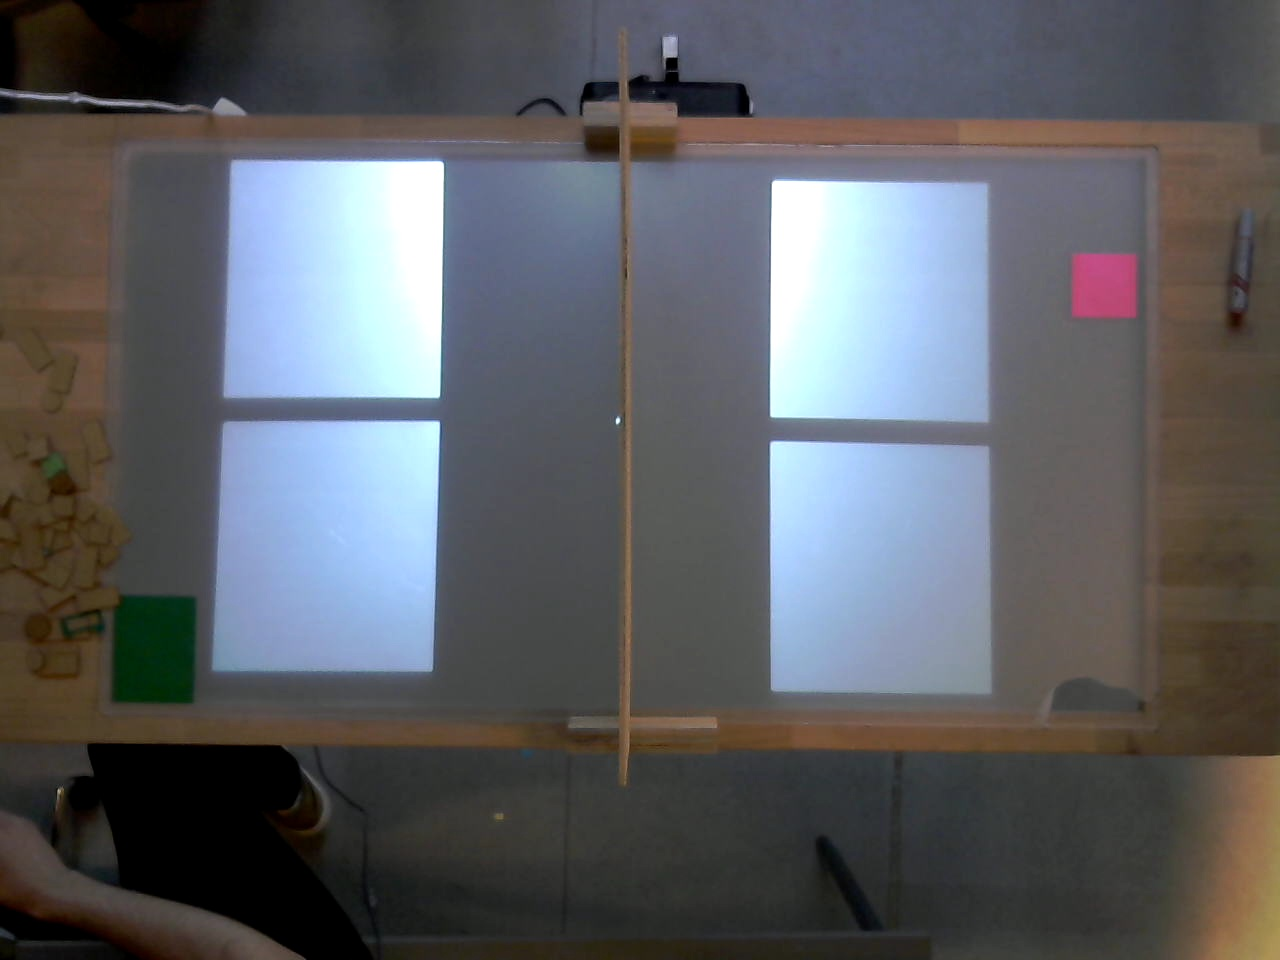
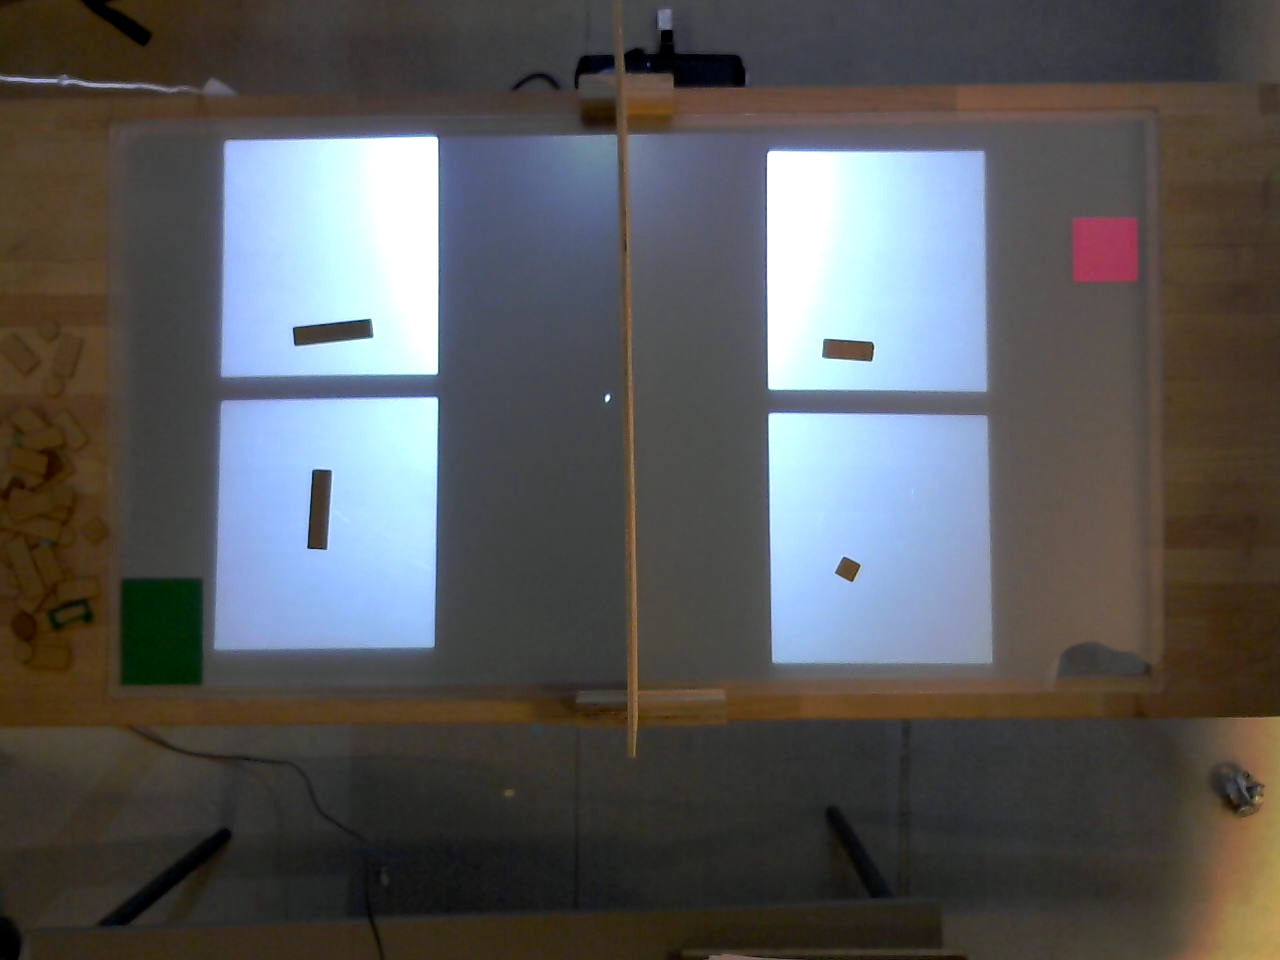
Cropping works now with video

diff --git a/Final code/cropAndDetect.py b/Final code/cropAndDetect.py
@@ -7,38 +7,20 @@ from calibration import *
 # Player = what player it should do its operations for
 # Type = defines if it is the attack or placement grid it should make
 # Coordinates = the coordinate set it should derive its coordinates for
-def detectShapes(image, player : int, type : int, cord):
-    image = cv2.GaussianBlur(image, (5, 5), cv2.BORDER_DEFAULT)
-    #lower_red = np.array([0, 0, 80])
-    #higher_red = np.array([25, 20, 255])
 
-    if player == 1:
-        if type == 0:
-            cropped_image = image[cord[0][0][0][1]:cord[0][0][1][1], cord[0][0][0][0]:cord[0][0][1][0]]
-            #binary_image = cv2.inRange(cropped_image, lower_red, higher_red)
-            #ship_positions = extract_blobs(binary_image)
-            cv2.imshow("Cropped", cropped_image)
+pg1 = []; pg2 = []; ag1 = []; ag2 = []
+background_images = []; shapes = []
 
-        if type == 1:
-            cropped_image = image[cord[1][0][0][1]:cord[0][0][1][1], cord[1][0][0][0]:cord[0][1][1][0]]
-            #binary_image = cv2.inRange(cropped_image, lower_red, higher_red)
-            #ship_positions = extract_blobs(binary_image)
-            cv2.imshow("Cropped", cropped_image)
 
-    elif player == 2:
-        if type == 0:
-            cropped_image = image[cord[0][1][0][1]:cord[0][1][1][1], cord[0][1][0][0]:cord[0][1][1][0]]
-            #binary_image = cv2.inRange(cropped_image, lower_red, higher_red)
-            #ship_positions = extract_blobs(binary_image)
-            cv2.imshow("Cropped", cropped_image)
+def gridPositions(pg1, pg2, ag1, ag2):
+    pg1.append((positions[0][0][0][1], positions[0][0][1][1],  positions[0][0][0][0], positions[0][0][1][0]))
+    pg2.append((positions[0][1][0][1], positions[0][1][1][1], positions[0][1][0][0], positions[0][1][1][0]))
+    ag1.append((positions[1][0][0][1], positions[0][0][1][1], positions[1][0][0][0], positions[0][1][1][0]))
+    ag2.append((positions[1][1][0][1], positions[1][1][1][1], positions[1][1][0][0], positions[1][1][1][0]))
 
-        if type == 1:
-            cropped_image = image[cord[1][1][0][1]:cord[1][1][1][1], cord[1][1][0][0]:cord[1][1][1][0]]
-            #binary_image = cv2.inRange(cropped_image, lower_red, higher_red)
-            #ship_positions = extract_blobs(binary_image)
-            cv2.imshow("Cropped", cropped_image)
-
-    cv2.imwrite("Pictures/cropped_witships.jpg", cropped_image)
+def cropGrid(image, grid):
+    cropped_image = image[grid[0][0]:grid[0][1], grid[0][2]:grid[0][3]]
+    return cropped_image
 
 video = cv2.VideoCapture(1)
 #video.set(cv2.CAP_PROP_AUTO_EXPOSURE, 0.25)
@@ -47,20 +29,46 @@ video = cv2.VideoCapture(1)
 #video.set(cv2.CAP_PROP_FRAME_HEIGHT, 720);
 #video.set(3, 1920)
 #video.set(4, 900)
+gridPositions(pg1, pg2, ag1, ag2)
 
+
+print("Take image WITHOUT any shapes in")
 while True:
     check, frame = video.read()
     cv2.imshow("Frame", frame)
     key = cv2.waitKey(1)
     if key == ord('q'):
         break
+cv2.destroyAllWindows()
 
+background_images.append(cropGrid(frame, pg1))
+background_images.append(cropGrid(frame, pg2))
+background_images.append(cropGrid(frame, ag1))
+background_images.append(cropGrid(frame, ag2))
 
-cv2.imwrite("Pictures/frame_2.jpg", frame)
-detectShapes(frame, 1, 0, positions)
-#detectShapes(frame, 1, 1, positions)
-#detectShapes(frame, 2, 0, positions)
-#detectShapes(frame, 2, 1, positions)
+print("Place ships")
+while True:
+    check, frame = video.read()
+    cv2.imshow("Frame", frame)
+    key = cv2.waitKey(1)
+    if key == ord('q'):
+        break
+shapes.append(cropGrid(frame, pg1))
+shapes.append(cropGrid(frame, pg2))
+shapes.append(cropGrid(frame, ag1))
+shapes.append(cropGrid(frame, ag2))
+
+cv2.imshow("1", background_images[0])
+cv2.imshow("2", background_images[1])
+cv2.imshow("3", background_images[2])
+cv2.imshow("4", background_images[3])
+
+cv2.imshow("11", shapes[0])
+cv2.imshow("22", shapes[1])
+cv2.imshow("33", shapes[2])
+cv2.imshow("44", shapes[3])
+
+#cv2.imwrite("Pictures/frame_2.jpg", frame)
 
 video.release()
 cv2.waitKey(0)

diff --git a/Final code/calibration.py b/Final code/calibration.py
@@ -3,7 +3,8 @@ import cv2
 import numpy as np
 from blob import extract_blobs
 
-#image = cv2.imread("/Users/mikkelsangmeebaunsgaard/Desktop/mikkelTHIS.jpg"
+image = cv2.imread("/Users/mikkelsangmeebaunsgaard/Desktop/mikkelTHIS.jpg")
+
 def coordinates(blobs):
     coordinates = []
     for blob in blobs:
